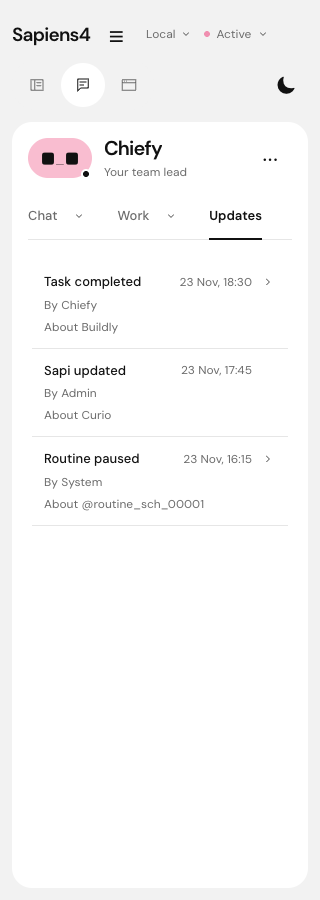
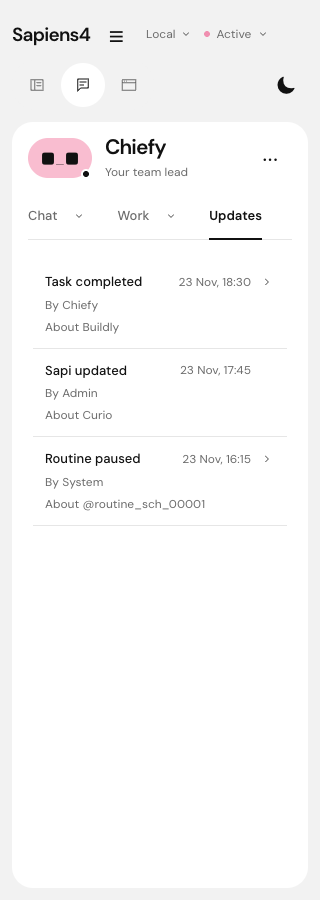
Apply golden-ratio pane, type, and spacing scales

diff --git a/app/theme/sapi-theme.css b/app/theme/sapi-theme.css
@@ -10,7 +10,10 @@
   --sapi-ink:#111; --sapi-muted:#6b6b6b; --sapi-line:#e6e6e6;
   --sapi-action:#f9bdd0; --sapi-on-action:#111; --sapi-blush:#f08fb0;
   --sapi-chiefy:#f9bdd0; --sapi-curio:#cfc4f2; --sapi-buildly:#fbe58a; --sapi-nerd:#bfe3fa;
-  --sapi-radius-card:20px; --sapi-radius-inner:14px; --sapi-gap:12px;
+  /* Fibonacci intervals approximate phi; half-steps keep text sizes practical. */
+  --sapi-space-sm:8px; --sapi-space-md:13px; --sapi-space-lg:21px; --sapi-space-xl:34px;
+  --sapi-text-small:13px; --sapi-text-body:16px; --sapi-text-title:21px; --sapi-text-display:34px;
+  --sapi-radius-card:21px; --sapi-radius-inner:13px; --sapi-gap:13px;
   --sapi-font:"DM Sans",system-ui,sans-serif;
   --sapi-face:"Zen Maru Gothic","Hiragino Maru Gothic ProN","Yu Gothic UI",sans-serif;
   --sapi-mono:"IBM Plex Mono",ui-monospace,monospace; --sapi-display:var(--sapi-font);
@@ -28,12 +31,12 @@
 }
 
 /* Shell. Keep the native workspace rectangle and scrolling behavior intact. */
-:root[data-theme] body.sapi-workspace .app{padding:12px;gap:12px;min-height:0}
+:root[data-theme] body.sapi-workspace .app{padding:var(--sapi-space-md);gap:var(--sapi-space-md);min-height:0}
 :root[data-theme] body.sapi-workspace .app-header{height:auto;min-height:44px;padding:0 8px;gap:12px;border:0;background:transparent;flex-shrink:0}
 :root[data-theme] body.sapi-workspace .wordmark{display:inline-flex;align-items:center;gap:10px;width:auto;margin:0;padding:0;color:var(--ink);text-shadow:none;letter-spacing:0}
 :root[data-theme] body.sapi-workspace .wordmark .brand-name{font:600 19px/1 var(--sapi-font);letter-spacing:-.04em}
 :root[data-theme] body.sapi-workspace .brand-mark{width:34px;height:24px}
-:root[data-theme] body.sapi-workspace .main-grid{gap:12px;overflow:hidden}
+:root[data-theme] body.sapi-workspace .main-grid{gap:var(--sapi-gap);overflow:hidden}
 :root[data-theme] body.sapi-workspace .main-grid>:is(.sidebar,.conversation,.workspace){border:0;border-radius:var(--sapi-radius-card);background:var(--sapi-surface);min-width:0;min-height:0}
 :root[data-theme] body.sapi-workspace .main-grid>:not([hidden])~:not([hidden]){border-left:0}
 :root[data-theme] body.sapi-workspace .sidebar{padding:12px 10px 0}
@@ -54,11 +57,11 @@
 :root[data-theme] body.sapi-workspace :is(.scope-switch,.settings-tabs){background:var(--sapi-soft);border:0;border-radius:999px;padding:3px;gap:3px}
 :root[data-theme] body.sapi-workspace :is(.scope-switch,.settings-tabs) button{min-height:32px;padding:6px 12px;font:600 13px/1.3 var(--sapi-font);border:0;border-radius:999px;color:var(--muted);box-shadow:none}
 :root[data-theme] body.sapi-workspace :is(.scope-switch button.active,.settings-tabs [aria-selected=true]){background:var(--sapi-surface);color:var(--ink);border:0;box-shadow:none}
-:root[data-theme] body.sapi-workspace .search-field{min-height:36px;border:0;border-radius:14px;background:var(--sapi-soft);padding:6px 12px}
+:root[data-theme] body.sapi-workspace .search-field{min-height:36px;border:0;border-radius:var(--sapi-radius-inner);background:var(--sapi-soft);padding:6px 12px}
 :root[data-theme] body.sapi-workspace .search-field input{font-size:13px}
 :root[data-theme] body.sapi-workspace .search-field kbd{font:12px var(--sapi-mono);color:var(--muted);border:0}
 :root[data-theme] body.sapi-workspace .agent-list{gap:4px;padding:0 0 12px;min-height:0}
-:root[data-theme] body.sapi-workspace .agent-row{padding:8px;gap:10px;min-height:64px;border:0;border-radius:14px;box-shadow:none}
+:root[data-theme] body.sapi-workspace .agent-row{padding:8px;gap:10px;min-height:64px;border:0;border-radius:var(--sapi-radius-inner);box-shadow:none}
 :root[data-theme] body.sapi-workspace .agent-row.active{background:var(--sapi-soft);border:0;box-shadow:inset 3px 0 var(--sapi-ink)}
 :root[data-theme] body.sapi-workspace .agent-row:hover:not(.active){background:var(--sapi-soft)}
 :root[data-theme] body.sapi-workspace .agent-row-name{font-size:14px;font-weight:600;letter-spacing:0}
@@ -67,7 +70,7 @@
 :root[data-theme] body.sapi-workspace .main-sapi-row{margin-bottom:4px}
 :root[data-theme] body.sapi-workspace .main-sapi-row::after{display:none}
 :root[data-theme] body.sapi-workspace .sidebar-bottom{border:0;padding:8px 0}
-:root[data-theme] body.sapi-workspace .resource-card{display:block;background:var(--sapi-soft);border:0;border-radius:14px;padding:6px 12px 10px}
+:root[data-theme] body.sapi-workspace .resource-card{display:block;background:var(--sapi-soft);border:0;border-radius:var(--sapi-radius-inner);padding:6px 12px 10px}
 :root[data-theme] body.sapi-workspace .resource-open{display:flex;align-items:center;gap:8px;width:100%;min-height:32px;text-align:left}
 :root[data-theme] body.sapi-workspace .resource-open strong{font:600 12px var(--sapi-font);letter-spacing:0}
 :root[data-theme] body.sapi-workspace .resource-open .status-dot{margin-left:auto}
@@ -91,25 +94,25 @@
 :root[data-theme] body.sapi-workspace :is(.corpora-dot[data-active=true],.connection-status[data-online=true] .connection-dot){background:var(--sapi-blush);box-shadow:0 0 0 2px var(--sapi-soft)}
 
 /* Conversation: open assistant text, soft user bubbles, pill composer. */
-:root[data-theme] body.sapi-workspace .agent-heading{height:auto;min-height:76px;padding:16px 20px;gap:12px}
-:root[data-theme] body.sapi-workspace .agent-heading h2{font:600 20px/1.2 var(--sapi-font);letter-spacing:-.04em}
+:root[data-theme] body.sapi-workspace .agent-heading{height:auto;min-height:76px;padding:var(--sapi-space-md) var(--sapi-space-lg);gap:var(--sapi-space-md)}
+:root[data-theme] body.sapi-workspace .agent-heading h2{font:600 var(--sapi-text-title)/1.2 var(--sapi-font);letter-spacing:-.04em}
 :root[data-theme] body.sapi-workspace .agent-heading p{font-size:12px;line-height:1.4;color:var(--muted);margin-top:4px}
-:root[data-theme] body.sapi-workspace .conversation-tabs{margin:0 20px;padding:0;gap:20px;min-height:40px;background:transparent;border:0;border-bottom:1px solid var(--sapi-line);border-radius:0;align-items:center;justify-content:flex-start}
+:root[data-theme] body.sapi-workspace .conversation-tabs{margin:0 var(--sapi-space-lg);padding:0;gap:var(--sapi-space-lg);min-height:40px;background:transparent;border:0;border-bottom:1px solid var(--sapi-line);border-radius:0;align-items:center;justify-content:flex-start}
 :root[data-theme] body.sapi-workspace .activity-tab{border:0;border-bottom:2px solid transparent;border-radius:0;gap:0;margin:0 0 -1px;align-items:center;flex:0 0 auto;justify-content:flex-start}
 :root[data-theme] body.sapi-workspace .activity-tab.active{background:transparent;border-bottom-color:var(--ink)}
 :root[data-theme] body.sapi-workspace .activity-tab>button{min-height:36px;padding:8px 4px;font:500 13px/1.3 var(--sapi-font);border:0;border-radius:6px}
 :root[data-theme] body.sapi-workspace .activity-tab>.activity-toggle{width:28px;height:32px;min-width:28px;padding:0}
-:root[data-theme] body.sapi-workspace .activity-menu{padding:6px;background:var(--sapi-surface);border:1px solid var(--sapi-line);border-radius:20px;box-shadow:0 12px 36px #0002}
-:root[data-theme] body.sapi-workspace .activity-menu button{min-height:36px;font-size:13px;border-radius:14px}
+:root[data-theme] body.sapi-workspace .activity-menu{padding:6px;background:var(--sapi-surface);border:1px solid var(--sapi-line);border-radius:var(--sapi-radius-card);box-shadow:0 12px 36px #0002}
+:root[data-theme] body.sapi-workspace .activity-menu button{min-height:36px;font-size:13px;border-radius:var(--sapi-radius-inner)}
 :root[data-theme] body.sapi-workspace #activity-viewbar{padding:8px 20px 0;min-height:44px}
 :root[data-theme] body.sapi-workspace :is(.activity-view-title,.activity-view-menu>button){font-size:13px}
 :root[data-theme] body.sapi-workspace .work-nav-tools button{min-height:44px}
-:root[data-theme] body.sapi-workspace .conversation-body{padding:20px max(20px,calc((100% - 78ch)/2)) 12px}
+:root[data-theme] body.sapi-workspace .conversation-body{padding:var(--sapi-space-lg) max(var(--sapi-space-lg),calc((100% - 76ch)/2)) var(--sapi-space-md)}
 :root[data-theme] body.sapi-workspace .day-divider{font:400 12px/1.5 var(--sapi-font);letter-spacing:.06em;color:var(--muted);margin-bottom:24px}
 :root[data-theme] body.sapi-workspace .message-meta{font-size:13px;gap:8px}
 :root[data-theme] body.sapi-workspace .message-meta time{font-size:12px;color:var(--muted)}
-:root[data-theme] body.sapi-workspace .message-bubble{font:400 15px/1.65 var(--sapi-font);letter-spacing:0;background:transparent;border:0;padding:0;color:var(--ink)}
-:root[data-theme] body.sapi-workspace .user .message-bubble{background:var(--sapi-soft);padding:12px 18px;border-radius:20px 20px 6px 20px}
+:root[data-theme] body.sapi-workspace .message-bubble{font:400 var(--sapi-text-body)/1.618 var(--sapi-font);letter-spacing:0;background:transparent;border:0;padding:0;color:var(--ink)}
+:root[data-theme] body.sapi-workspace .user .message-bubble{background:var(--sapi-soft);padding:12px 18px;border-radius:var(--sapi-radius-card) 20px 6px 20px}
 :root[data-theme] body.sapi-workspace .entity-mention{display:inline;padding:0;border:0;border-radius:0;background:none;color:var(--ink);font:inherit;text-decoration:underline;text-underline-offset:3px;text-decoration-color:var(--muted);cursor:pointer;overflow-wrap:anywhere}
 :root[data-theme] body.sapi-workspace .composer-area{padding:12px 16px 16px;background:transparent}
 :root[data-theme] body.sapi-workspace .composer{border:0;border-radius:28px;background:var(--sapi-soft);box-shadow:none;padding:4px}
@@ -133,7 +136,7 @@
 :root[data-theme] body.sapi-workspace .workspace-document{padding:24px;line-height:1.7}
 :root[data-theme] body.sapi-workspace .workspace-document :is(h1,h2,h3){font-weight:600;letter-spacing:-.04em;line-height:1.2;margin:1em 0 .5em}
 :root[data-theme] body.sapi-workspace .workspace-document p{margin-block:12px}
-:root[data-theme] body.sapi-workspace .workspace-document pre{padding:18px;background:var(--sapi-soft);border-radius:14px;overflow:auto}
+:root[data-theme] body.sapi-workspace .workspace-document pre{padding:18px;background:var(--sapi-soft);border-radius:var(--sapi-radius-inner);overflow:auto}
 :root[data-theme] body.sapi-workspace .workspace-footer{justify-content:flex-end;border:0;padding:10px 16px;background:transparent;color:var(--muted);font-size:13px}
 :root[data-theme] body.sapi-workspace .workspace-footer a{color:inherit;text-decoration:none;min-height:44px;display:inline-flex;align-items:center}
 :root[data-theme] body.sapi-workspace .workspace-owner{display:flex;gap:5px;align-items:baseline;font-size:13px;overflow-wrap:anywhere}
@@ -142,38 +145,38 @@
 :root[data-theme] body.sapi-workspace :is(.button,.suggestions button,.pill,#corpora-dialog button,#corpora-notice button,.corpora-empty button,#mobile-install-gate button){min-height:44px;padding:10px 18px;border:0;border-radius:999px;background:var(--sapi-soft);color:var(--ink);font:600 14px/1.4 var(--sapi-font);box-shadow:none}
 :root[data-theme] body.sapi-workspace :is(.button.primary,.corpora-empty .primary,#mobile-install-action,#install-app,#corpora-dialog .primary,#paste-invitation>button[type=submit]){background:var(--sapi-action);color:var(--sapi-on-action);border:0;box-shadow:none}
 :root[data-theme] body.sapi-workspace:has(dialog[open]) .app .send-button{background:var(--sapi-soft);color:var(--muted)}
-:root[data-theme] body.sapi-workspace :is(.tag,.tag.gray,.tag.lilac,.attachment-chip,.group-banner,.warning-badge,.voice-status){background:var(--sapi-soft);color:var(--ink);border:0;border-radius:14px;font-size:13px}
+:root[data-theme] body.sapi-workspace :is(.tag,.tag.gray,.tag.lilac,.attachment-chip,.group-banner,.warning-badge,.voice-status){background:var(--sapi-soft);color:var(--ink);border:0;border-radius:var(--sapi-radius-inner);font-size:13px}
 :root[data-theme] body.sapi-workspace .warning-badge{min-height:44px;padding:6px 12px;border-radius:999px}
-:root[data-theme] body.sapi-workspace :is(dialog,#corpora-dialog,#corpora-notice){border:0;border-radius:20px;padding:24px;background:var(--sapi-surface);color:var(--ink);box-shadow:0 20px 80px #0003;max-height:calc(100dvh - 24px);overflow:auto}
-:root[data-theme] body.sapi-workspace #modal-content h2,:root[data-theme] body.sapi-workspace #corpora-dialog h2{font:600 30px/1.1 var(--sapi-font);letter-spacing:-.04em;margin-bottom:16px}
+:root[data-theme] body.sapi-workspace :is(dialog,#corpora-dialog,#corpora-notice){border:0;border-radius:var(--sapi-radius-card);padding:24px;background:var(--sapi-surface);color:var(--ink);box-shadow:0 20px 80px #0003;max-height:calc(100dvh - 24px);overflow:auto}
+:root[data-theme] body.sapi-workspace #modal-content h2,:root[data-theme] body.sapi-workspace #corpora-dialog h2{font:600 var(--sapi-text-display)/1.1 var(--sapi-font);letter-spacing:-.04em;margin-bottom:16px}
 :root[data-theme] body.sapi-workspace :is(#modal-content>p,.form-hint,.settings-row p,.ai-provider-status,.model-intro,.model-hint,.voice-transcript,.voice-hint,.relay-private,.relay-warning){color:var(--muted);font-size:13px;line-height:1.6}
 :root[data-theme] body.sapi-workspace :is(.form-stack label,.settings-row,.pairing-details){font-size:14px}
-:root[data-theme] body.sapi-workspace :is(.form-stack input,.form-stack textarea,.form-stack select,.settings-row select,#corpora-dialog input:not([type=file]),#corpora-dialog textarea,.model-row select){background-color:var(--sapi-soft);color:var(--ink);border:0;border-radius:14px;min-height:44px;padding:12px;font-size:15px}
+:root[data-theme] body.sapi-workspace :is(.form-stack input,.form-stack textarea,.form-stack select,.settings-row select,#corpora-dialog input:not([type=file]),#corpora-dialog textarea,.model-row select){background-color:var(--sapi-soft);color:var(--ink);border:0;border-radius:var(--sapi-radius-inner);min-height:44px;padding:12px;font-size:15px}
 :root[data-theme] body.sapi-workspace :is(input[type=checkbox],input[type=radio]){accent-color:var(--ink)}
 :root[data-theme] body.sapi-workspace :is(.form-stack,#corpora-dialog) :is(input[type=checkbox],input[type=radio]){min-height:0;width:18px;height:18px;padding:0;flex:none}
-:root[data-theme] body.sapi-workspace :is(.browser-menu,.corpora-popover,.mention-suggestions,.app-update-notice){background:var(--sapi-surface);color:var(--ink);border:0;border-radius:20px;box-shadow:0 12px 36px #0002;padding:12px}
-:root[data-theme] body.sapi-workspace :is(.browser-menu,.corpora-popover,.mention-suggestions) button{min-height:44px;border-radius:14px;font-size:13px}
+:root[data-theme] body.sapi-workspace :is(.browser-menu,.corpora-popover,.mention-suggestions,.app-update-notice){background:var(--sapi-surface);color:var(--ink);border:0;border-radius:var(--sapi-radius-card);box-shadow:0 12px 36px #0002;padding:12px}
+:root[data-theme] body.sapi-workspace :is(.browser-menu,.corpora-popover,.mention-suggestions) button{min-height:44px;border-radius:var(--sapi-radius-inner);font-size:13px}
 :root[data-theme] body.sapi-workspace .browser-menu{top:52px}
-:root[data-theme] body.sapi-workspace :is(.corpora-record,.relay-list,.relay-warning,.group-members,.ai-provider-list,.model-rows){border:0;border-radius:14px;background:var(--sapi-soft)}
+:root[data-theme] body.sapi-workspace :is(.corpora-record,.relay-list,.relay-warning,.group-members,.ai-provider-list,.model-rows){border:0;border-radius:var(--sapi-radius-inner);background:var(--sapi-soft)}
 :root[data-theme] body.sapi-workspace :is(.ai-provider-row,.model-row,.relay-row+.relay-row){border-color:var(--sapi-line)}
 :root[data-theme] body.sapi-workspace .ai-provider-row .button{min-height:44px;border-radius:999px}
 :root[data-theme] body.sapi-workspace .model-row select{padding-right:28px;background-color:var(--sapi-surface)}
 :root[data-theme] body.sapi-workspace .model-save-row .button{min-height:44px}
-:root[data-theme] body.sapi-workspace .workspace-settings-link{border:0;border-radius:14px;padding:16px;background:var(--sapi-soft);margin-top:12px}
-:root[data-theme] body.sapi-workspace :is(.toast,#remote-feedback){border:0;border-radius:14px;background:var(--ink);color:var(--sapi-surface);font:13px/1.5 var(--sapi-font);box-shadow:0 8px 28px #0002}
+:root[data-theme] body.sapi-workspace .workspace-settings-link{border:0;border-radius:var(--sapi-radius-inner);padding:16px;background:var(--sapi-soft);margin-top:12px}
+:root[data-theme] body.sapi-workspace :is(.toast,#remote-feedback){border:0;border-radius:var(--sapi-radius-inner);background:var(--ink);color:var(--sapi-surface);font:13px/1.5 var(--sapi-font);box-shadow:0 8px 28px #0002}
 
 /* Work, progress, attachments, warnings, and empty states. */
-:root[data-theme] body.sapi-workspace :is(.live-status,.warning-details){padding:16px;border:0;border-radius:14px;background:var(--sapi-soft);color:var(--ink)}
+:root[data-theme] body.sapi-workspace :is(.live-status,.warning-details){padding:16px;border:0;border-radius:var(--sapi-radius-inner);background:var(--sapi-soft);color:var(--ink)}
 :root[data-theme] body.sapi-workspace .live-status p{font-size:13px}
-:root[data-theme] body.sapi-workspace .task-row{border:0;border-radius:14px;margin-bottom:8px;background:var(--sapi-soft);padding:0 14px}
-:root[data-theme] body.sapi-workspace .task-summary{border-radius:14px;padding:12px 0;gap:10px}
+:root[data-theme] body.sapi-workspace .task-row{border:0;border-radius:var(--sapi-radius-inner);margin-bottom:8px;background:var(--sapi-soft);padding:0 14px}
+:root[data-theme] body.sapi-workspace .task-summary{border-radius:var(--sapi-radius-inner);padding:12px 0;gap:10px}
 :root[data-theme] body.sapi-workspace .task-title{font-size:14px;font-weight:600}
 :root[data-theme] body.sapi-workspace :is(.task-meta,.task-result-heading,.task-copy,.task-reference){font-size:13px}
 :root[data-theme] body.sapi-workspace .task-copy{min-height:44px;padding:8px}
 :root[data-theme] body.sapi-workspace .task-mark{border:0;background:transparent;font:500 18px/1 var(--sapi-face);color:var(--muted);width:20px;height:24px}
 :root[data-theme] body.sapi-workspace :is(.task-mark.complete,.task-mark.active){color:var(--sapi-blush);background:transparent}
 :root[data-theme] body.sapi-workspace :is(.task-state,.task-state.complete,.task-state.attention,.task-error){color:var(--ink)}
-:root[data-theme] body.sapi-workspace .task-body-heading{border:0;border-radius:14px 14px 0 0;background:var(--sapi-surface);font-size:13px}
+:root[data-theme] body.sapi-workspace .task-body-heading{border:0;border-radius:var(--sapi-radius-inner) 14px 0 0;background:var(--sapi-surface);font-size:13px}
 :root[data-theme] body.sapi-workspace .task-body-yaml{border:0;border-radius:0 0 14px 14px;background:var(--sapi-surface);font:400 14px/1.6 var(--sapi-mono)}
 :root[data-theme] body.sapi-workspace .task-result{font-size:15px}
 :root[data-theme] body.sapi-workspace :is(code,pre,.task-format,.event-row time){font-family:var(--sapi-mono)}
@@ -193,7 +196,7 @@
 :root[data-theme] body.sapi-workspace .event-detail{padding:0 12px 12px}
 :root[data-theme] body.sapi-workspace .event-detail p{font-size:12px;color:var(--muted);margin:4px 0 8px}
 :root[data-theme] body.sapi-workspace .event-row pre{font:400 12px/1.6 var(--sapi-mono);border-radius:8px;background:var(--sapi-surface);margin:0;padding:12px}
-:root[data-theme] body.sapi-workspace .conversation-body:has(:is(.event-log,.task-browser)){padding-inline:20px}
+:root[data-theme] body.sapi-workspace .conversation-body:has(:is(.event-log,.task-browser)){padding-inline:var(--sapi-space-lg)}
 @container(max-width:620px){
  :root[data-theme] body.sapi-workspace .event-head{display:none}
  :root[data-theme] body.sapi-workspace .event-row .event-columns{grid-template-columns:minmax(0,1fr) auto 16px;gap:4px 8px}
@@ -220,25 +223,25 @@
 :root[data-theme] body.sapi-workspace .sapi-face>span{position:relative;z-index:1}
 :root[data-theme] body.sapi-workspace .typed-progress{display:flex;align-items:center;gap:8px;overflow:hidden;white-space:nowrap;margin-bottom:12px;font:300 20px/1.5 var(--sapi-face);color:var(--muted)}
 :root[data-theme] body.sapi-workspace .typed-progress .progress-line{color:var(--sapi-blush)}
-:root[data-theme] body.sapi-workspace .workspace-empty{margin:auto;padding:32px;text-align:center;max-width:480px;color:var(--muted)}
-:root[data-theme] body.sapi-workspace .workspace-empty h2{font:600 30px/1.1 var(--sapi-font);letter-spacing:-.04em;color:var(--ink);margin-bottom:12px}
+:root[data-theme] body.sapi-workspace .workspace-empty{margin:auto;padding:var(--sapi-space-xl);text-align:center;max-width:480px;color:var(--muted)}
+:root[data-theme] body.sapi-workspace .workspace-empty h2{font:600 var(--sapi-text-display)/1.1 var(--sapi-font);letter-spacing:-.04em;color:var(--ink);margin-bottom:12px}
 
 /* First run and installation use the same floating surface. */
-:root[data-theme] body.sapi-workspace .corpora-empty{margin:auto;width:min(100%,620px);padding:40px 24px;background:var(--sapi-surface);border-radius:20px}
+:root[data-theme] body.sapi-workspace .corpora-empty{margin:auto;width:min(100%,620px);padding:40px 24px;background:var(--sapi-surface);border-radius:var(--sapi-radius-card)}
 :root[data-theme] body.sapi-workspace .corpora-empty h1{font:600 clamp(40px,7vw,64px)/.98 var(--sapi-font);letter-spacing:-.06em;margin-bottom:20px}
 :root[data-theme] body.sapi-workspace .corpora-empty p{color:var(--muted);margin-bottom:24px}
 :root[data-theme] body.sapi-workspace .corpora-empty button{margin:6px}
-:root[data-theme] body.sapi-workspace.setup-bootstrap main{margin:12px;width:min(calc(100% - 24px),620px);height:calc(100dvh - 24px);background:var(--sapi-surface);border-radius:20px;padding:28px}
+:root[data-theme] body.sapi-workspace.setup-bootstrap main{margin:12px;width:min(calc(100% - 24px),620px);height:calc(100dvh - 24px);background:var(--sapi-surface);border-radius:var(--sapi-radius-card);padding:28px}
 :root[data-theme] body.sapi-workspace.setup-bootstrap h1{font:600 clamp(40px,7vw,64px)/.98 var(--sapi-font);letter-spacing:-.06em}
 :root[data-theme] body.sapi-workspace.setup-bootstrap p{font-size:15px}
-:root[data-theme] body.sapi-workspace .setup-choice{border:0;border-radius:14px;background:var(--sapi-soft);padding:16px}
+:root[data-theme] body.sapi-workspace .setup-choice{border:0;border-radius:var(--sapi-radius-inner);background:var(--sapi-soft);padding:16px}
 :root[data-theme] body.sapi-workspace .setup-choice[aria-pressed=true]{box-shadow:inset 0 0 0 2px var(--ink)}
 :root[data-theme] body.sapi-workspace .setup-choice strong{font-size:15px}
 :root[data-theme] body.sapi-workspace .setup-choice-copy small{font-size:13px;white-space:normal}
 :root[data-theme] body.sapi-workspace .setup-footer{border:0}
 :root[data-theme] body.sapi-workspace .setup-footer .button{min-height:46px;font-size:15px}
 :root[data-theme] body.sapi-workspace .setup-mark{width:44px;height:32px}
-:root[data-theme] body.sapi-workspace .install-card{max-width:440px;padding:28px;border-radius:20px;background:var(--sapi-surface)}
+:root[data-theme] body.sapi-workspace .install-card{max-width:440px;padding:28px;border-radius:var(--sapi-radius-card);background:var(--sapi-surface)}
 :root[data-theme] body.sapi-workspace .install-brand{color:var(--ink)}
 :root[data-theme] body.sapi-workspace .install-card h1{font:600 40px/1.05 var(--sapi-font);letter-spacing:-.04em}
 
@@ -268,7 +271,7 @@
  :root[data-theme] body.sapi-workspace .scope-switch{background:var(--sapi-soft);padding:3px;gap:3px}
  :root[data-theme] body.sapi-workspace .scope-switch button{flex:1}
  :root[data-theme] body.sapi-workspace .agent-heading{padding:12px 16px;min-height:72px}
- :root[data-theme] body.sapi-workspace .agent-heading h2{font-size:20px}
+ :root[data-theme] body.sapi-workspace .agent-heading h2{font-size:var(--sapi-text-title)}
  :root[data-theme] body.sapi-workspace .conversation-tabs{margin:0 16px;padding:0;gap:16px}
  :root[data-theme] body.sapi-workspace .activity-tab>button{padding:8px 4px;font-size:13px}
  :root[data-theme] body.sapi-workspace .activity-tab>.activity-toggle{width:36px;min-width:36px}
@@ -276,11 +279,11 @@
  :root[data-theme] body.sapi-workspace .composer-area{padding:12px}
  :root[data-theme] body.sapi-workspace .composer{border-radius:28px;background:var(--sapi-soft)}
  :root[data-theme] body.sapi-workspace :is(.composer textarea,.search-field input,.form-stack input,.form-stack select,.form-stack textarea,.browser-address-bar input,.model-row select){font-size:16px}
- :root[data-theme] body.sapi-workspace :is(.message-bubble,.user .message-bubble){font-size:15px}
- :root[data-theme] body.sapi-workspace .user .message-bubble{border-radius:20px 20px 6px 20px}
+ :root[data-theme] body.sapi-workspace :is(.message-bubble,.user .message-bubble){font-size:var(--sapi-text-body)}
+ :root[data-theme] body.sapi-workspace .user .message-bubble{border-radius:var(--sapi-radius-card) 20px 6px 20px}
  :root[data-theme] body.sapi-workspace .browser-tabs-wrap{min-height:68px;padding:12px}
  :root[data-theme] body.sapi-workspace .workspace-tab{min-height:44px;min-width:0;border-radius:999px}
- :root[data-theme] body.sapi-workspace .corpora-popover{border-radius:20px 20px 0 0}
+ :root[data-theme] body.sapi-workspace .corpora-popover{border-radius:var(--sapi-radius-card) 20px 0 0}
  :root[data-theme] body.sapi-workspace dialog{padding:24px;max-height:calc(var(--mobile-viewport-height,100dvh) - 24px)}
  :root[data-theme] body.sapi-workspace .activity-submenu{left:0;top:100%;min-width:100%}
  :root[data-theme] body.sapi-workspace .activity-tab:last-child .activity-menu{left:auto;right:0}
@@ -291,7 +294,7 @@
 
 /* Mouse-driven narrow windows keep the roster beside two stacked work panes. */
 @media(min-width:601px) and (max-width:1050px){
- :root[data-theme] body.sapi-workspace:not([data-mobile-ui]) .main-grid{grid-template-columns:minmax(220px,.7fr) minmax(0,1.3fr)!important;grid-template-rows:minmax(0,1fr) minmax(0,1fr)}
+ :root[data-theme] body.sapi-workspace:not([data-mobile-ui]) .main-grid{grid-template-columns:minmax(220px,1fr) minmax(0,1.618fr)!important;grid-template-rows:minmax(0,1fr) minmax(0,1fr)}
  :root[data-theme] body.sapi-workspace:not([data-mobile-ui]) .main-grid>.sidebar{grid-column:1;grid-row:1 / 3}
  :root[data-theme] body.sapi-workspace:not([data-mobile-ui]) .main-grid>.conversation{grid-column:2;grid-row:1}
  :root[data-theme] body.sapi-workspace:not([data-mobile-ui]) .main-grid>.workspace{grid-column:2;grid-row:2}
@@ -310,7 +313,7 @@
 :root[data-theme] body.sapi-workspace[data-mobile-ui] .composer-bottom>.icon-button:nth-child(2){grid-column:2;grid-row:1}
 :root[data-theme] body.sapi-workspace[data-mobile-ui] .send-button{grid-column:4;grid-row:1}
 :root[data-theme] body.sapi-workspace #workspace-content{background:var(--sapi-surface);color:var(--ink)}
-:root[data-theme] body.sapi-workspace .workspace-empty{display:flex;flex:1;flex-direction:column;align-items:center;justify-content:center;margin:0 12px 12px;max-width:none;border-radius:14px;background:var(--sapi-soft)}
+:root[data-theme] body.sapi-workspace .workspace-empty{display:flex;flex:1;flex-direction:column;align-items:center;justify-content:center;margin:0 12px 12px;max-width:none;border-radius:var(--sapi-radius-inner);background:var(--sapi-soft)}
 /* A single control row leaves room for conversation, including stacked layouts. */
 :root[data-theme] body.sapi-workspace .composer{display:grid;grid-template-columns:44px 44px minmax(0,1fr) 44px;align-items:end;gap:2px;padding:4px}
 :root[data-theme] body.sapi-workspace .composer textarea{grid-column:3;grid-row:1;min-width:0;height:44px;min-height:44px;max-height:140px;padding:10px 4px;line-height:24px;overflow-y:auto}
@@ -340,7 +343,7 @@
 /* Visible labels disambiguate the three pane controls on roomy desktops. */
 :root[data-theme] body.sapi-workspace .pane-toggle{display:inline-flex;align-items:center;justify-content:center;gap:6px;width:auto;padding:0 10px;border-radius:999px}
 :root[data-theme] body.sapi-workspace .pane-toggle svg{width:18px;height:18px;flex:none}
-:root[data-theme] body.sapi-workspace .pane-caption{font:500 12px/1 var(--sapi-font)}
+:root[data-theme] body.sapi-workspace .pane-caption{font:500 var(--sapi-text-small)/1 var(--sapi-font)}
 @media(max-width:1150px){
  :root[data-theme] body.sapi-workspace .pane-caption{display:none}
  :root[data-theme] body.sapi-workspace .pane-toggle{width:36px;padding:0}

diff --git a/docs/art-direction.md b/docs/art-direction.md
@@ -20,9 +20,9 @@ Action/Chiefy `#F9BDD0`, blush `#F08FB0`, Curio `#CFC4F2`, Buildly `#FBE58A`
 and Nerd `#BFE3FA` stay identical in both themes. Text on pastel surfaces is
 always `#111111`. Blush is decorative progress color, never body text.
 
-Cards and dialogs use 20px radii; fields, rows and inset surfaces use 14px;
+Cards and dialogs use 21px radii; fields, rows and inset surfaces use 13px;
 buttons, chips and composers use pill shapes. Activity navigation uses compact
-underlined tabs to distinguish navigation from selection controls. Panes are separated by 12px
+underlined tabs to distinguish navigation from selection controls. Panes are separated by 13px
 of ground, with no dividing borders. Visible panes alone receive grid tracks.
 
 DM Sans is the interface font, Zen Maru Gothic is the face font (300 for artwork,
@@ -129,3 +129,13 @@ expansion/collapse, non-expandable empty payloads, a nine-Sapi roster with Group
 badges, pane resizing and draft input also passed focused interaction checks.
 
 [Desktop Updates](art-direction/updates-dark.png) · [Narrow Updates](art-direction/updates-mobile.png)
+
+## Golden-ratio sizing
+
+The conversation/workspace tracks divide their available width at 1:1.618 on
+wide windows, after the roster and gaps. Minimum pane widths take priority.
+Intermediate desktop windows use the same ratio between roster and work area.
+Spacing follows 8 / 13 / 21 / 34px; card/inner radii use 21 / 13px. The 13 / 21 /
+34px type anchors are complemented by a practical 16px body half-step and 1.618
+chat line-height. Touch targets remain at least 44px; narrow layouts prioritize
+readability over maintaining the wide-screen ratio.
